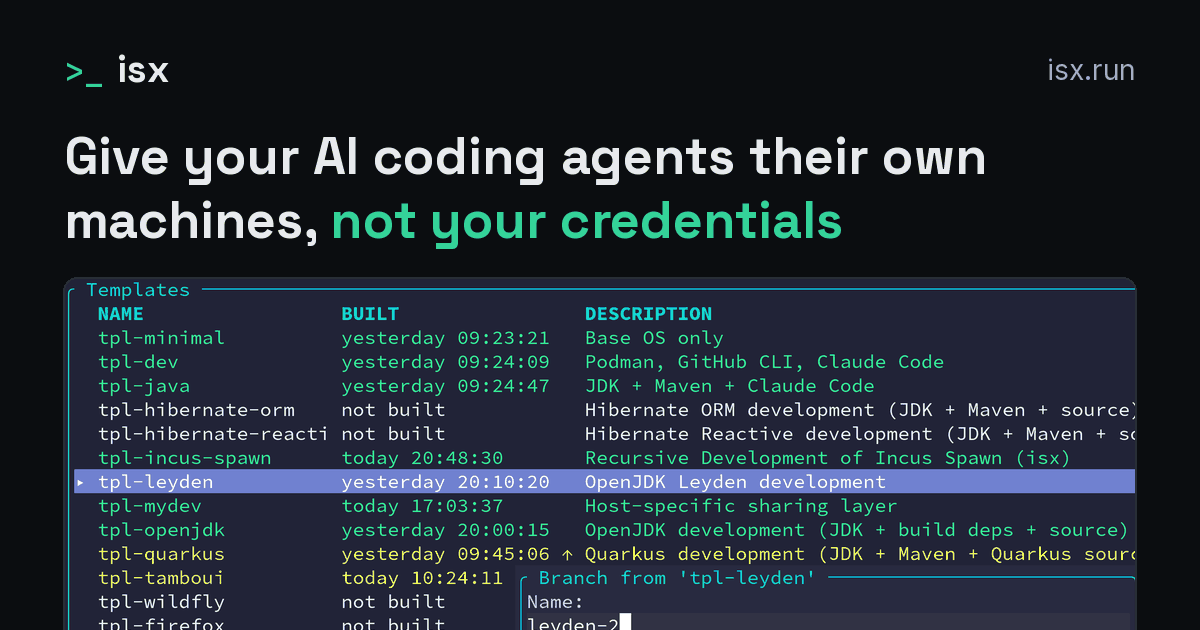
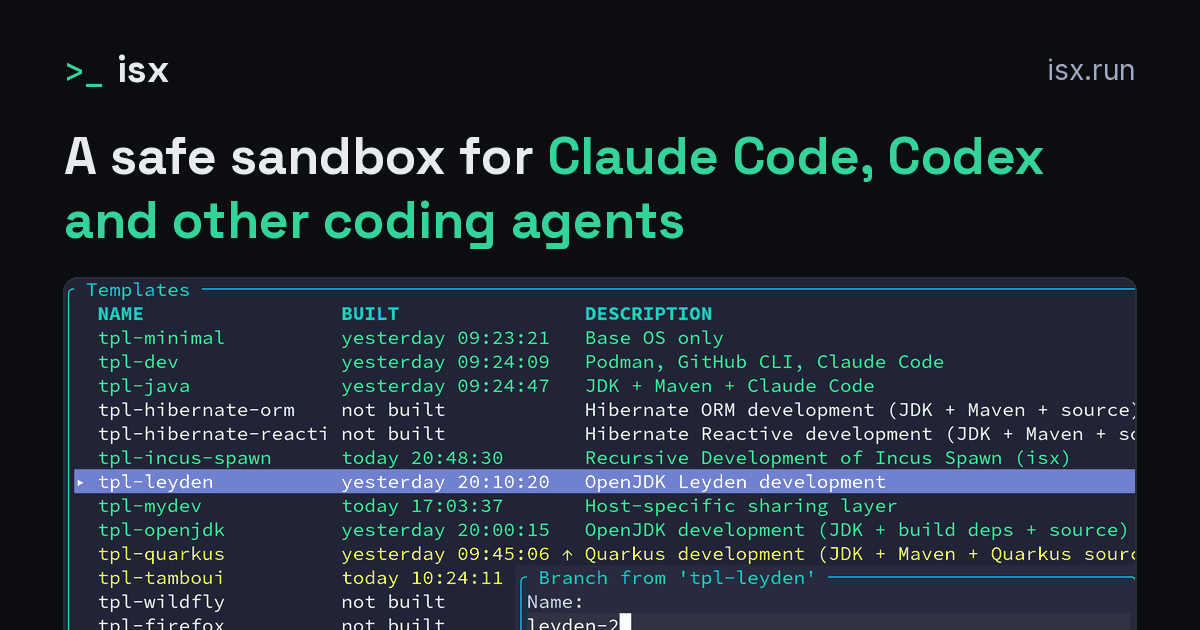
site: the share image and its alt text carry the new headline
og.png is drawn again by site/og-image.py with the homepage's H1, so a
shared link previews the same words the page and its title use.

diff --git a/site/docs.html b/site/docs.html
@@ -15,9 +15,9 @@
   <meta property="og:image" content="https://isx.run/og.png">
   <meta property="og:image:width" content="1200">
   <meta property="og:image:height" content="630">
-  <meta property="og:image:alt" content="isx: Give your AI coding agents their own machines, not your credentials. Screenshot of the isx terminal UI branching a new instance from a template.">
+  <meta property="og:image:alt" content="isx: A safe sandbox for Claude Code, Codex and other coding agents. Screenshot of the isx terminal UI branching a new instance from a template.">
   <meta name="twitter:image" content="https://isx.run/og.png">
-  <meta name="twitter:image:alt" content="isx: Give your AI coding agents their own machines, not your credentials. Screenshot of the isx terminal UI branching a new instance from a template.">
+  <meta name="twitter:image:alt" content="isx: A safe sandbox for Claude Code, Codex and other coding agents. Screenshot of the isx terminal UI branching a new instance from a template.">
   <link rel="canonical" href="https://isx.run/docs">
   <link rel="icon" href="/favicon.svg" type="image/svg+xml">
   <meta name="theme-color" content="#0b0d10">

diff --git a/site/index.html b/site/index.html
@@ -15,9 +15,9 @@
   <meta property="og:image" content="https://isx.run/og.png">
   <meta property="og:image:width" content="1200">
   <meta property="og:image:height" content="630">
-  <meta property="og:image:alt" content="isx: Give your AI coding agents their own machines, not your credentials. Screenshot of the isx terminal UI branching a new instance from a template.">
+  <meta property="og:image:alt" content="isx: A safe sandbox for Claude Code, Codex and other coding agents. Screenshot of the isx terminal UI branching a new instance from a template.">
   <meta name="twitter:image" content="https://isx.run/og.png">
-  <meta name="twitter:image:alt" content="isx: Give your AI coding agents their own machines, not your credentials. Screenshot of the isx terminal UI branching a new instance from a template.">
+  <meta name="twitter:image:alt" content="isx: A safe sandbox for Claude Code, Codex and other coding agents. Screenshot of the isx terminal UI branching a new instance from a template.">
   <script type="application/ld+json">
   {
     "@context": "https://schema.org",

diff --git a/site/og-image.py b/site/og-image.py
@@ -14,8 +14,8 @@ from fontTools.varLib import instancer
 from PIL import Image, ImageDraw, ImageFont
 
 SITE = os.path.dirname(os.path.abspath(__file__))
-HEADLINE = "Give your AI coding agents their own machines,"
-HIGHLIGHT = "not your credentials"
+HEADLINE = "A safe sandbox for"
+HIGHLIGHT = "Claude Code, Codex and other coding agents"
 DOMAIN = "isx.run"
 
 W, H, PAD = 1200, 630, 64
